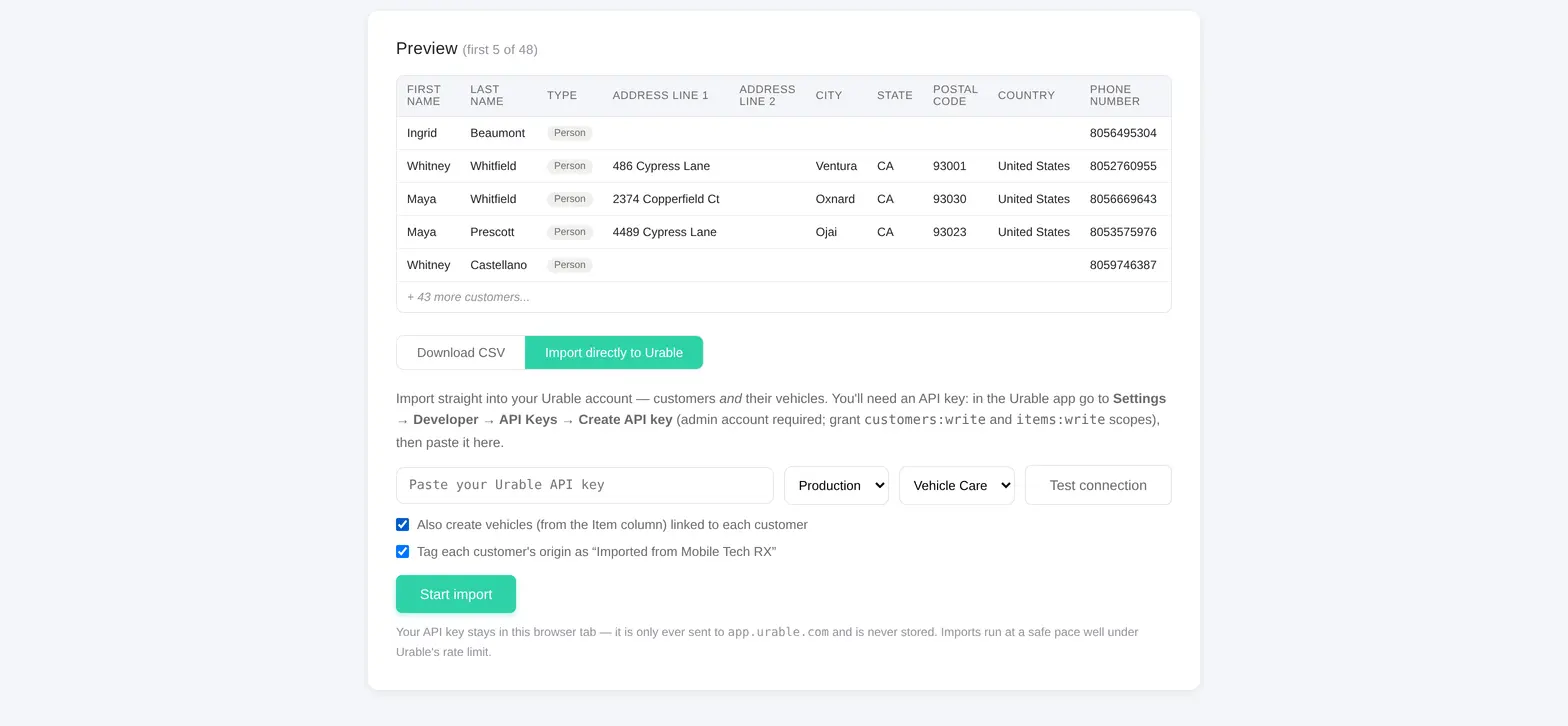
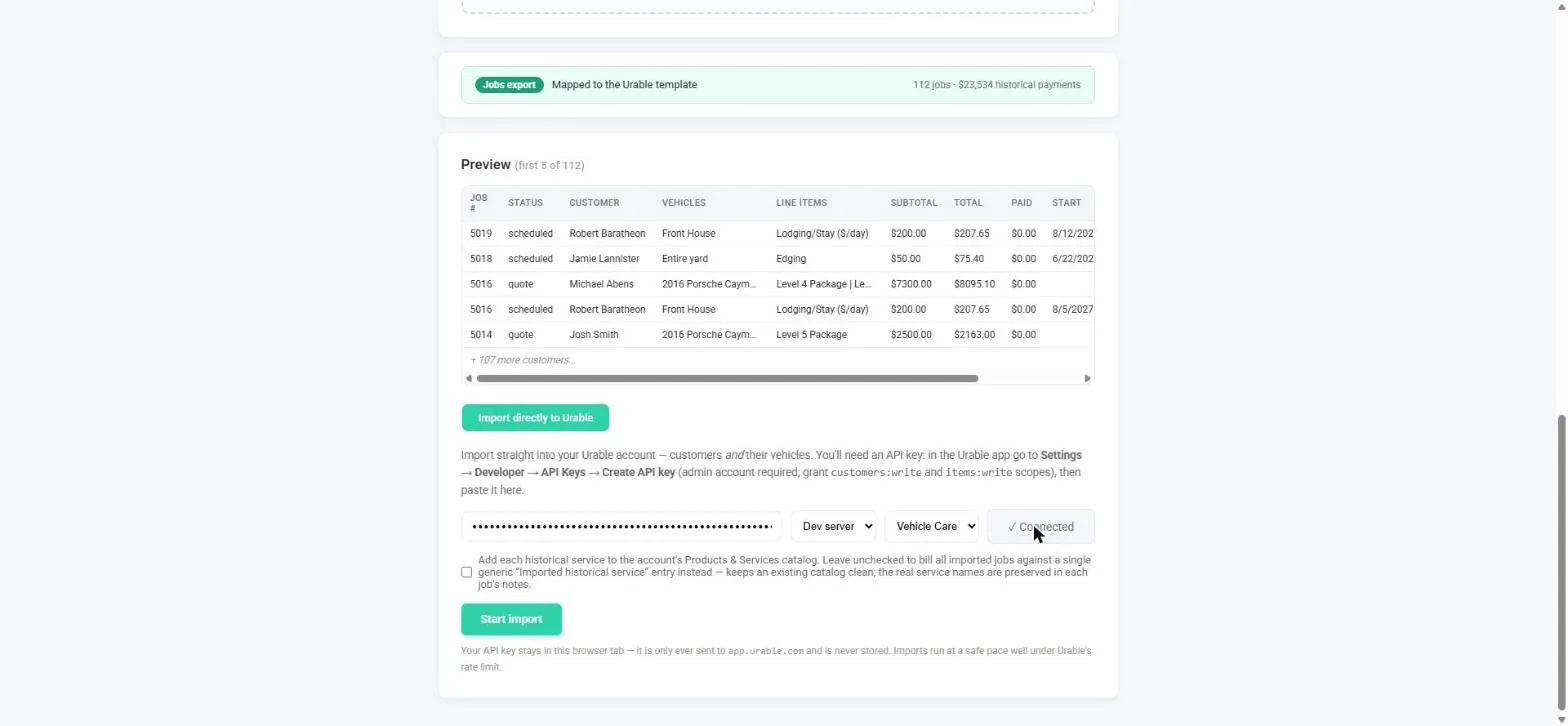
Walkthrough: real API import run — connected, progress, and summary with failures (21 steps)

diff --git a/walkthrough/index.html b/walkthrough/index.html
@@ -221,7 +221,7 @@
   </div>
 
   <div class="caption">
-    <div class="step-no"><small>Step</small><span id="stepNum">1</span>/19</div>
+    <div class="step-no"><small>Step</small><span id="stepNum">1</span>/21</div>
     <div class="step-text">
       <h2 id="stepTitle"></h2>
       <p id="stepBody"></p>
@@ -278,14 +278,22 @@ const steps=[
   body:"The key is shown <b>once</b>. Copy it with the icon on the right and paste it straight into the import tool before you click Done. Once this dialog closes there is no way to see it again.",
   hs:[62.6,53.2],
   note:"Lost it? No problem \u2014 you can't recover a key, but you can create another one in seconds. Revoke the old one so it doesn't linger."},
- {img:"step-09.webp",part:"C",title:"Paste it into the tool",
-  body:"Back in the import tool, switch to the <b>Import directly to Urable</b> tab and paste the key. Leave the server on <b>Production</b> and set the industry to match the shop.",
+  {img:"step-09.webp",part:"C",title:"Paste it into the tool",
+  body:"Back in the import tool, switch to the <b>Import directly to Urable</b> tab and paste the key. Set the server to match the account the key came from \u2014 <b>Production</b> for a live shop. Then set the industry to match.",
   hs:[37.3,66.9],
-  note:"The key is used for that import only and is never stored. It stays in the browser tab."},
- {img:"step-10.webp",part:"C",title:"Test, then start",
-  body:"Always click <b>Test connection</b> first \u2014 it confirms the key works before anything gets written. Leave <b>Also create vehicles</b> and <b>Tag each customer's origin</b> ticked unless you have a reason not to; the origin tag is what lets the shop report on migrated vs. new customers later. Then <b>Start import</b>.",
-  hs:[70,66.9],
-  note:"There is no bulk undo. Imports are safe to re-run \u2014 the tool scans the account first and matches records that already exist \u2014 but nothing removes them once they're in."},
+  note:"The key is used for that import only and is never stored. It stays in the browser tab. The screenshots in this part were captured against a dev account, so they show Dev server."},
+  {img:"step-10.webp",part:"C",title:"Test the connection first",
+  body:"Click <b>Test connection</b> before anything else. <b>\u2713 Connected</b> means the key and the server match and the import can write. Anything else and you stop here \u2014 a bad key wastes a long run.",
+  hs:[66.3,72.6],
+  note:"The result only shows on the button for a few seconds. If you miss it, just click again. \"Error 400\" means the key is wrong \u2014 the API reports a bad token as 400, not 401."},
+ {img:"step-10b.webp",part:"C",title:"Start it and watch",
+  body:"Tick your options, then <b>Start import</b>. The browser asks you to confirm the job count first \u2014 click OK. The bar then runs through the phases in order: matching existing records, then customers, services, vehicles, jobs and finally historical payments.",
+  hs:[49.6,90.5],
+  note:"Leave the tab open and don't navigate away. The import runs from this page \u2014 closing it stops the run partway."},
+ {img:"step-10c.webp",part:"C",title:"Read the summary",
+  body:"When it finishes you get counts for everything created, matched and skipped \u2014 and, in red, anything that failed with the reason. This real run did <b>95 jobs created, 3 already imported (skipped), 20 customers, 35 vehicles, 9 historical payments</b> \u2014 and <b>14 jobs failed</b> because those field jobs had no customer address in the source file.",
+  hs:[49.6,85.0],
+  note:"Failures are normal and safe: the rest still imported. Fix the underlying data (here, add addresses) and re-run the same file \u2014 already-imported jobs are skipped, so only the failures get retried."},
  {img:"step-11.webp",part:"D",title:"Products & services",
   body:"Same flow in the second box. Tiered menus come through grouped \u2014 a service priced for Coupe / Sedan / SUV becomes one service with three price points, not three services.",
   hs:[71.9,33.1]},
